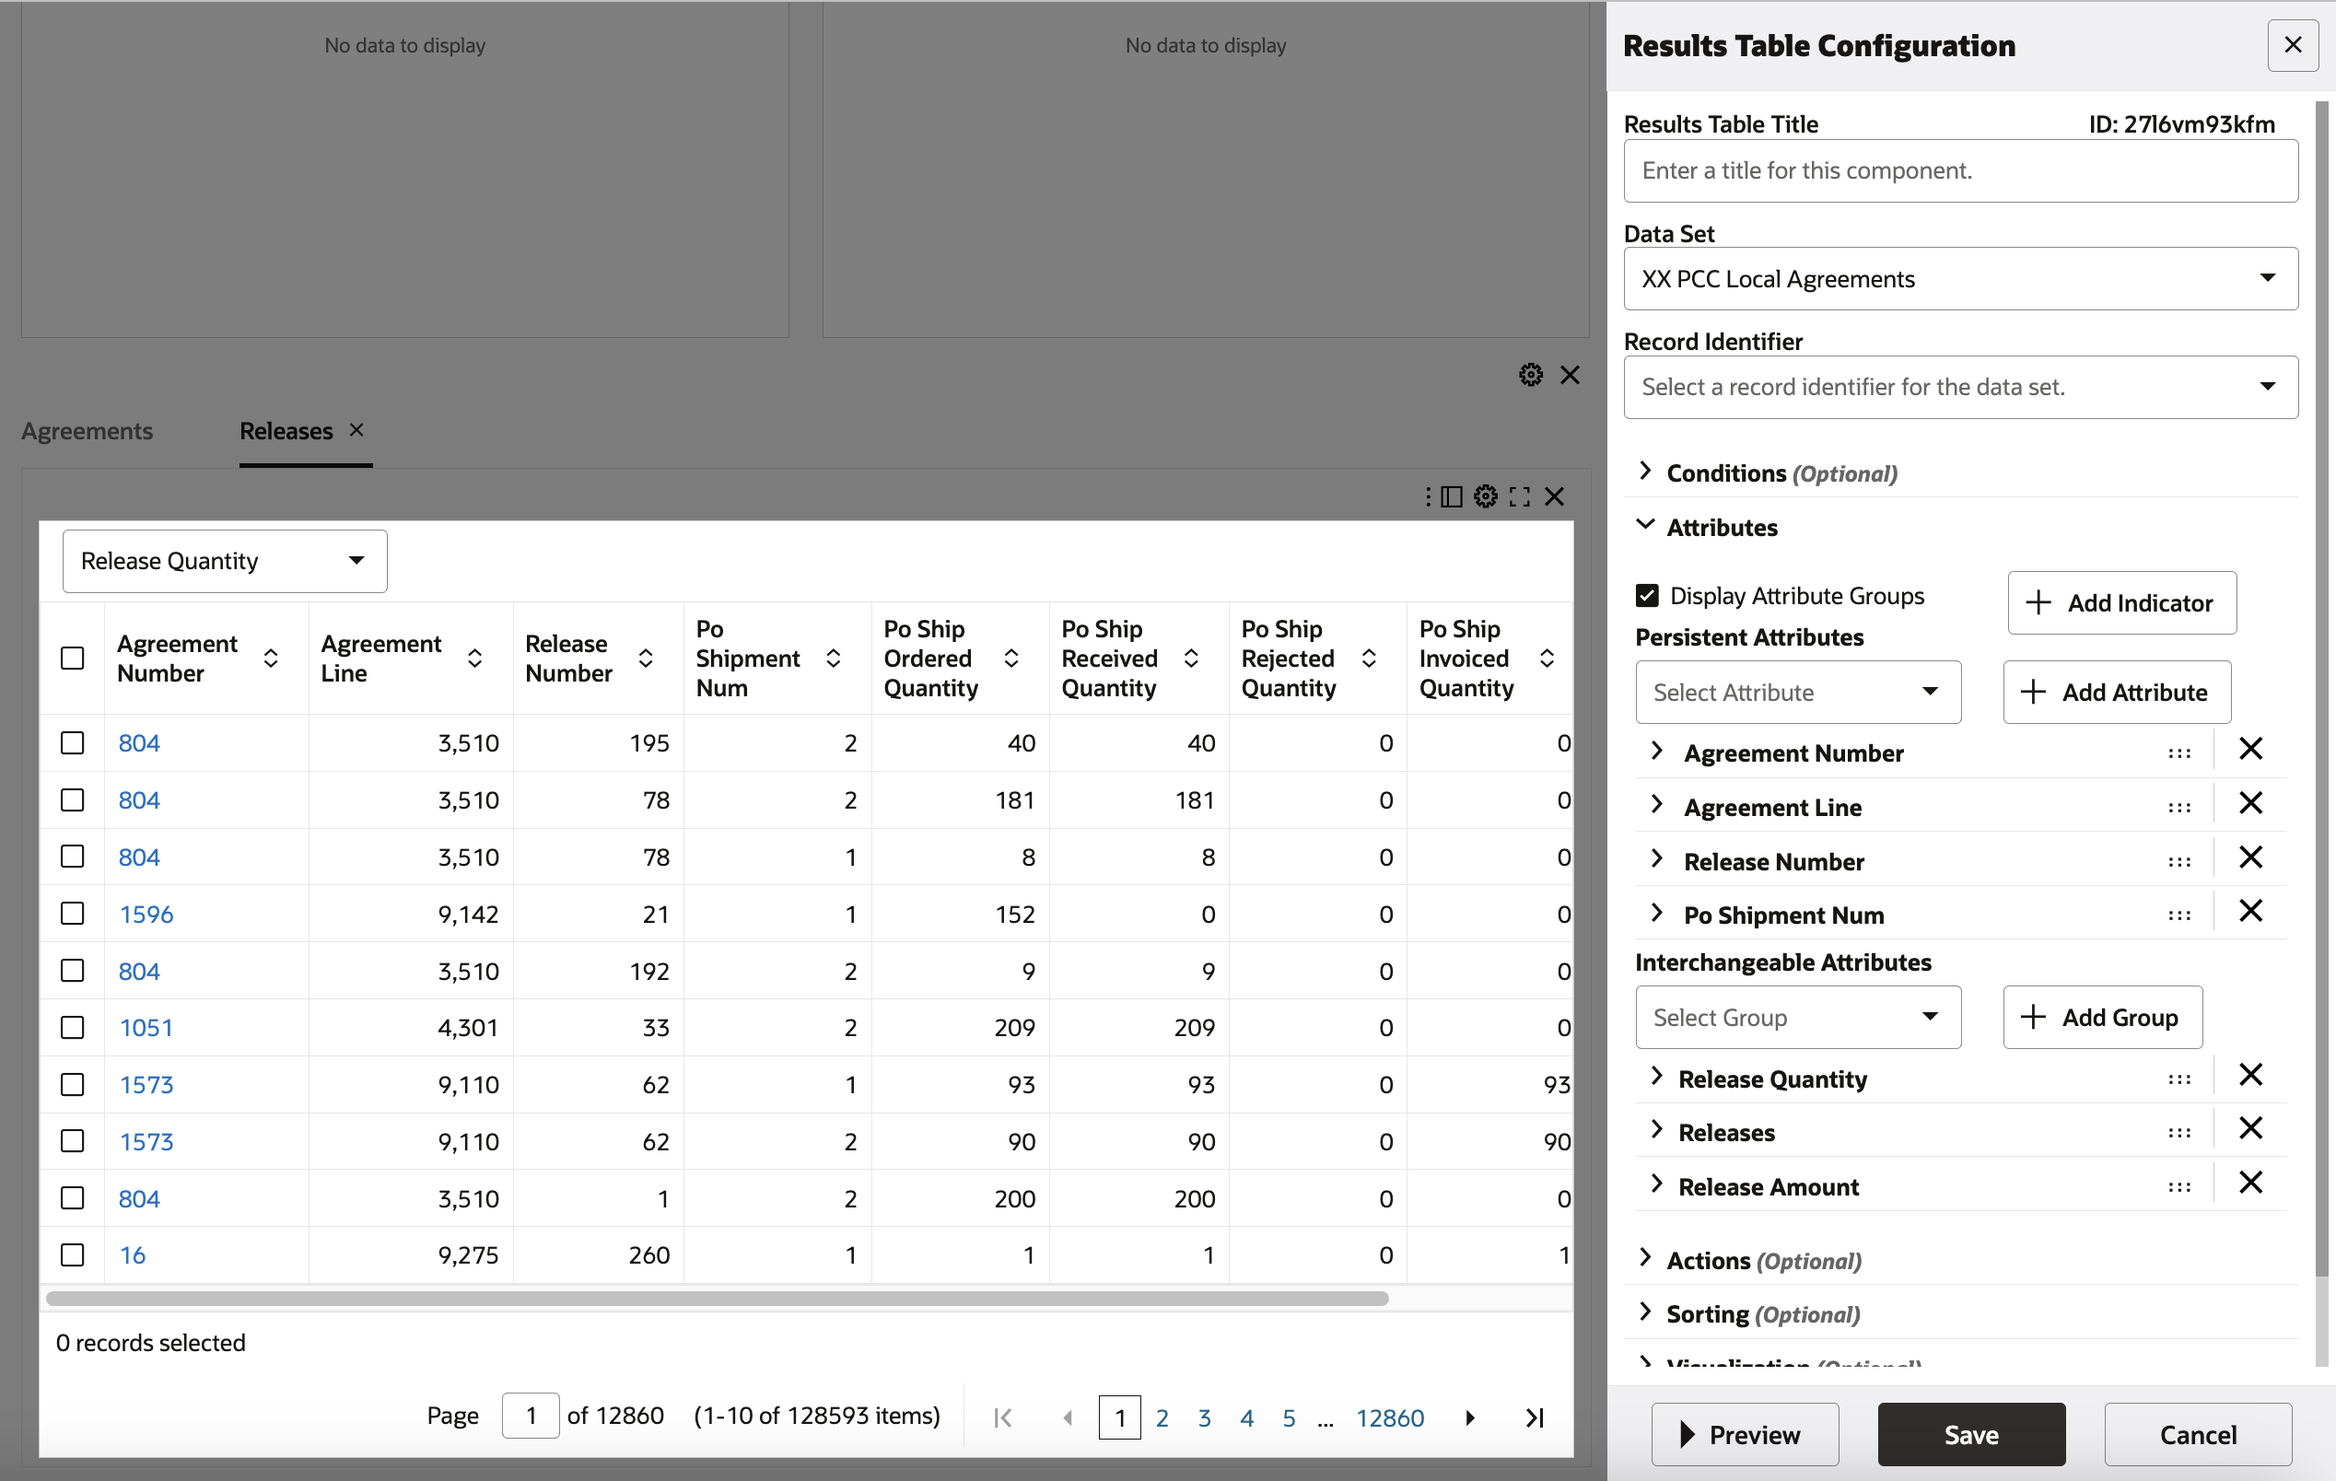
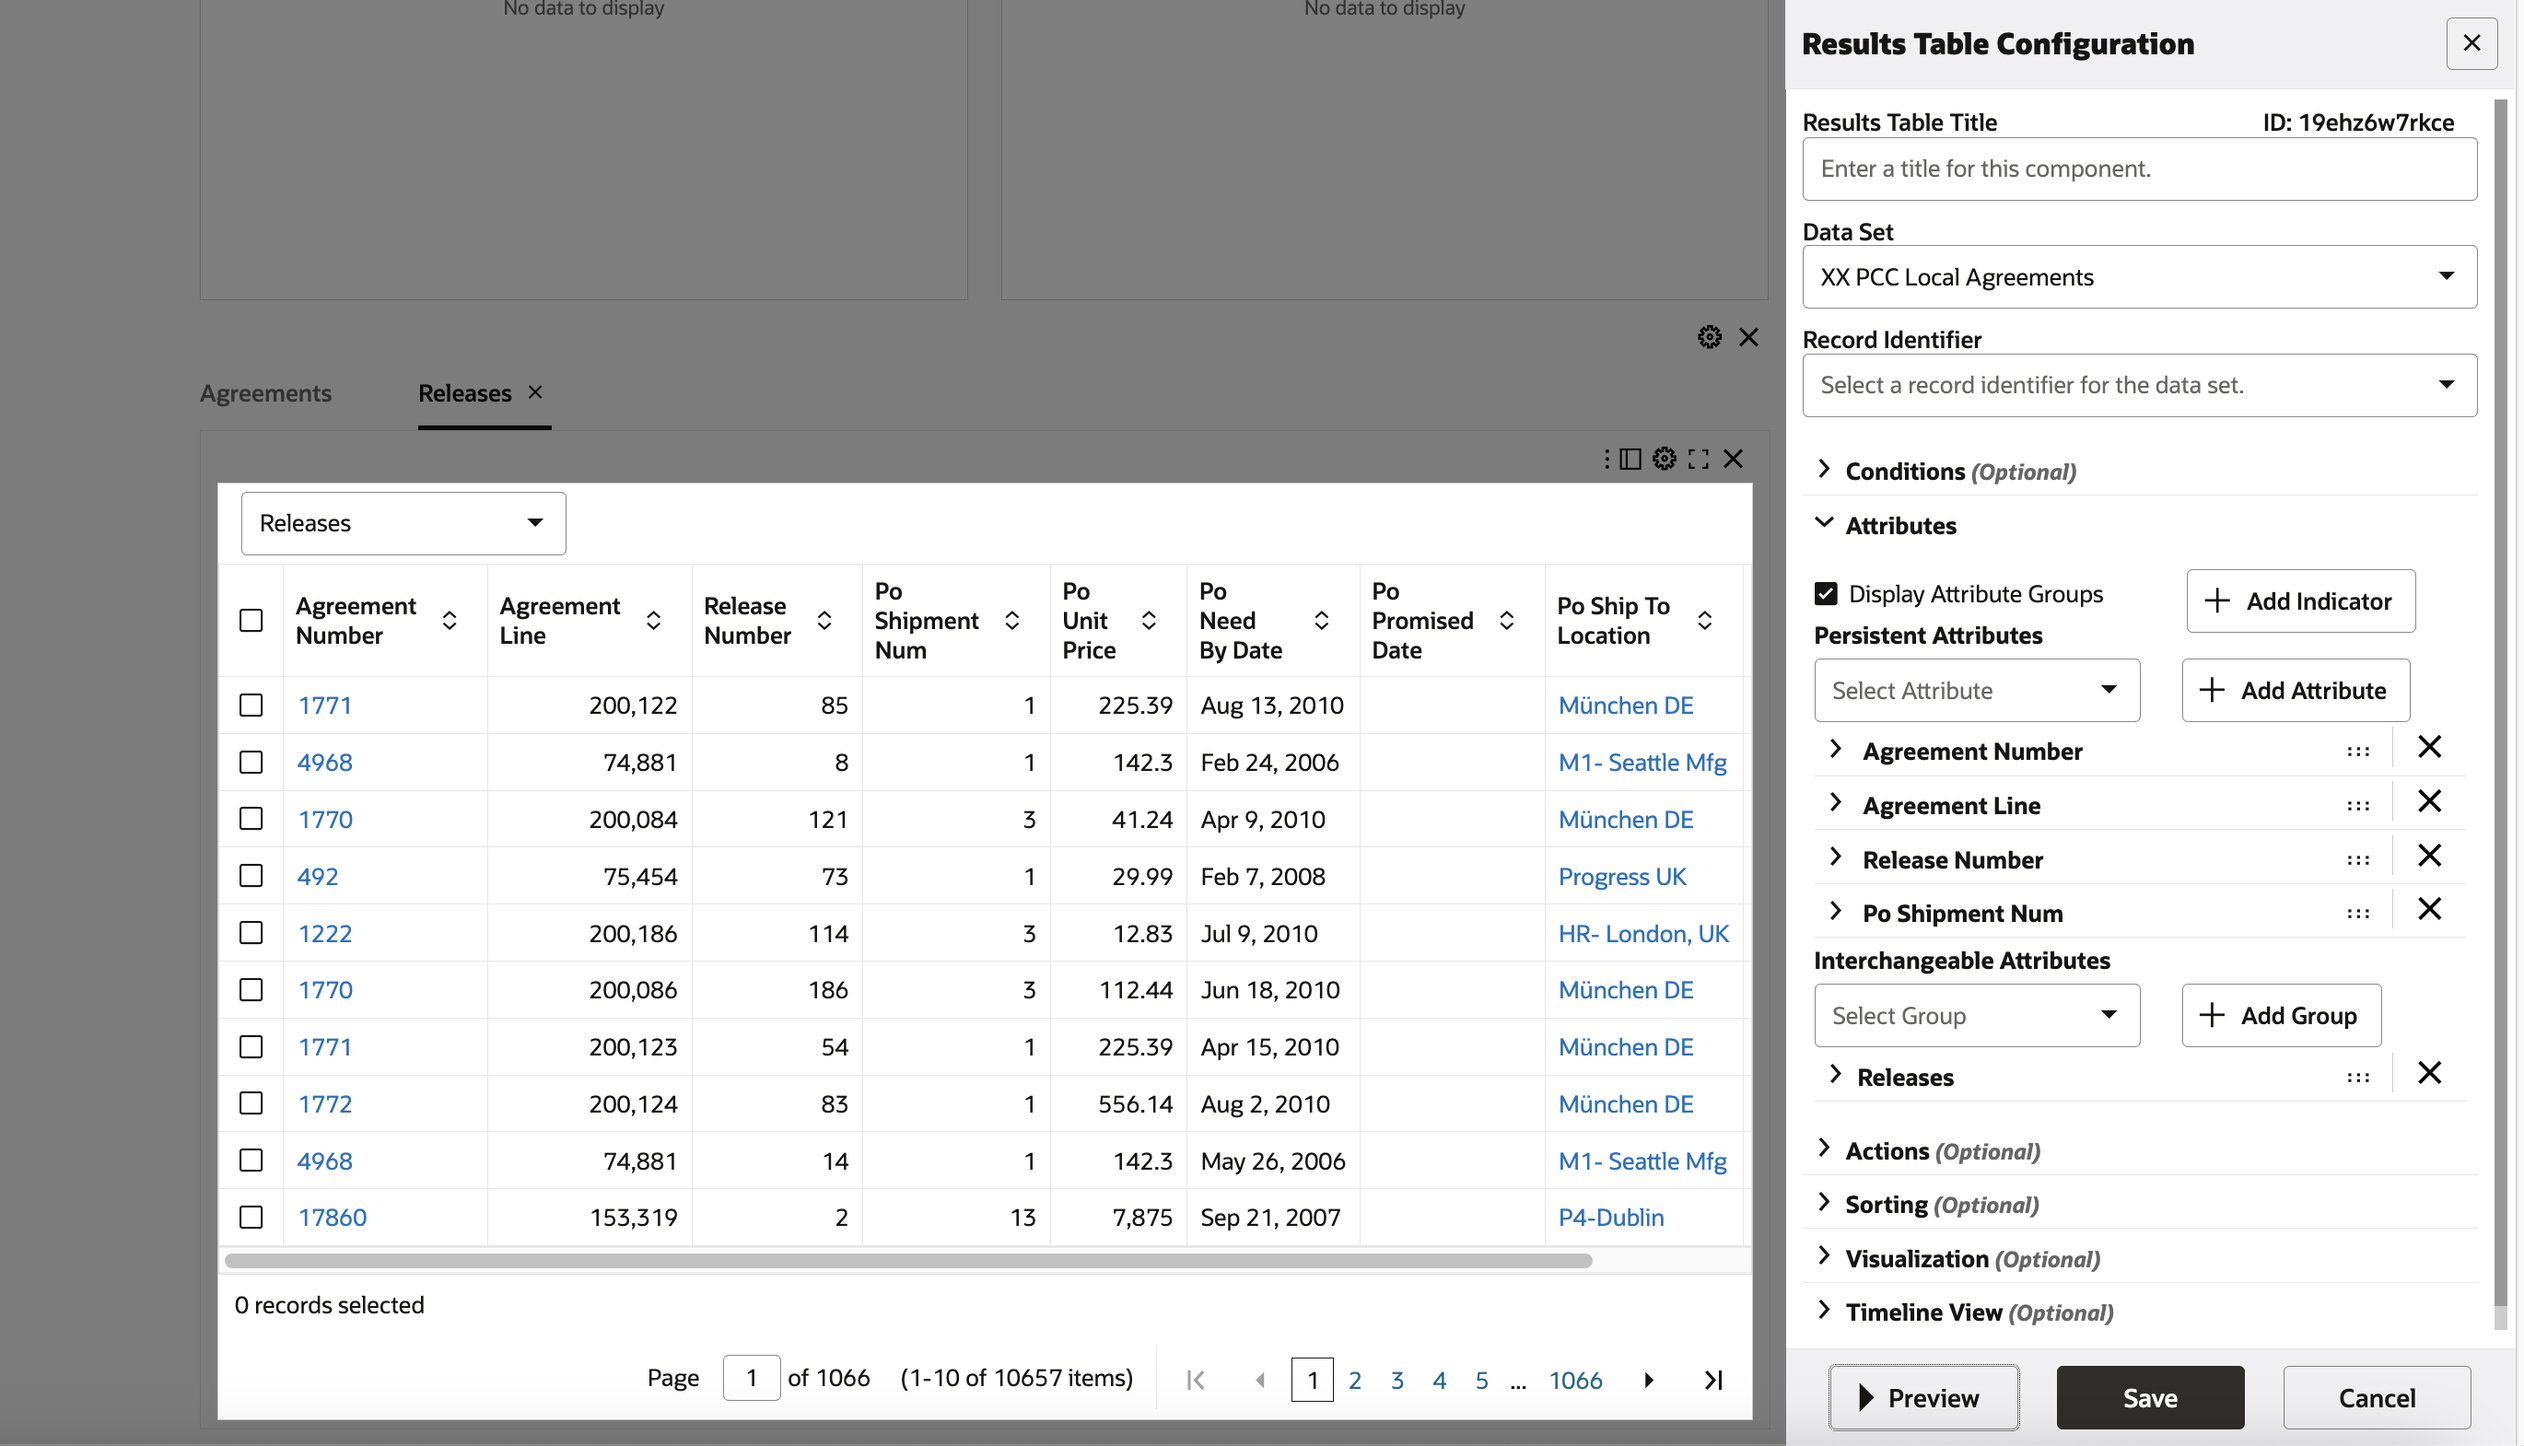
Removed 2 attribute groups and updated the screenshots accordingly

diff --git a/ecc-developer-hol/query/advancedextensibility/advancedextensibility.md b/ecc-developer-hol/query/advancedextensibility/advancedextensibility.md
@@ -173,31 +173,6 @@ Attribute Groups are defined at the data set level, where each data set can have
 
         ![Add Group](../images/a1133.png "Add Group")
 
-    * Similarly, add the below groups as well:
-        * “Release Quantity” Group
-            * Sequence #: 2
-            * Group Key: PO\_RELEASE\_QTY
-            * Group Name: Release Quantity
-            * Attributes:
-                * Po Ship Ordered Quantity
-                * Po Ship Received Quantity
-                * Po Ship Rejected Quantity
-                * Po Ship Invoiced Quantity
-                * Po Ship Cancelled Quantity
-
-        * “Release Amount” Group
-            * Sequence #: 3
-            * Group Key: PO\_RELEASE\_AMT
-            * Group Name: Release Amount
-            * Attributes:
-                * Po Ship Ordered Amount
-                * Po Ship Shipped Amount
-                * Po Ship Received Amount
-                * Po Ship Rejected Amount
-                * Po Ship Invoiced Amount
-
-            ![Attribute Groups](../images/a1132.png "Attribute Groups")
-
     * Click on “Save” button
 
 **Associations** </br>
@@ -216,10 +191,6 @@ Additionally, Oracle Enterprise Command Center Framework establishes an implicit
         * Click on the “Save” button
 
             ![Associations](../images/a1131.png "Associations")
-
-
-
-
 
 
 ## Task 3:	Assign data set to an application and execute data load
@@ -347,15 +318,15 @@ FROM ecc_proc_local_agreements</copy>
 
     * Attributes:
         * Enable “Display Attribute Groups” checkbox
-        * Add below groups (under Interchangeable Attributes section):
-            * Release Quantity
-            * Releases
-            * Release Amount
+
         * Add below attributes (under Persistent Attributes section):
             * Agreement Number
             * Agreement Line
             * Release Number
             * Po Shipment Num
+
+        * Add below group (under Interchangeable Attributes section):
+            * Releases
 
 12. You will see the below image:
         ![Add Releases Table](../images/a1112.png "Add Releases Table")
